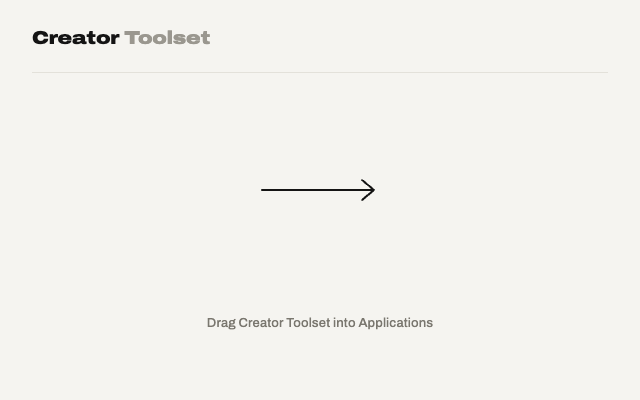
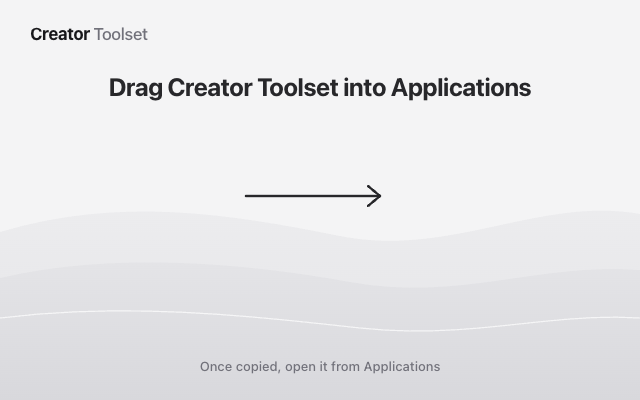
Mac installer window: a straight arrow between the app and Applications, the wordmark and headline on a light wave page, and the window is named "Creator Toolset <version> Installer"
The disk image window is 640 by 400 of content (the window is 428 with the title bar, so Finder no longer cuts the bottom). The icons sit at y 196 on either side of a straight arrow; the caption sits at the bottom with the same margin as the wordmark at the top. background.png and background@2x.png are rendered from background.html with headless Chrome (the command is in its comment). release.sh passes the version to dmgbuild for the volume name, so Finder's title reads the release version. The DMG file name is unchanged.

diff --git a/apps/mac/scripts/dmg/background.html b/apps/mac/scripts/dmg/background.html
@@ -1,18 +1,37 @@
 <!doctype html>
-<!-- The disk image window's background, 640x400. Remake background.png and background@2x.png from it with any
-     browser screenshot at 1x and 2x (e.g. Playwright, deviceScaleFactor 2) after a change. --><html><head><meta charset="utf-8"><style>
-@font-face{font-family:XB;src:url(../../../captions/public/fonts/Archivo-ExpandedBlack.woff2)}
-@font-face{font-family:AT;src:url(../../../captions/public/fonts/Archivo-Text.woff2)}
-html,body{margin:0;width:640px;height:400px;background:#F5F4F0;overflow:hidden}
-.mark{position:absolute;left:32px;top:28px;font:18px XB;letter-spacing:-.01em;color:#141414}
-.mark span{color:#9a978f}
-.hint{position:absolute;left:0;right:0;top:316px;text-align:center;font:500 13px AT;color:#7a776f;letter-spacing:.01em}
+<!-- The disk image window's background, 640x400 points. Render background.png (1x, 640x400) and background@2x.png
+     (2x, 1280x800) from it with headless Chrome, one at a time, from this folder:
+       chrome --headless=new --hide-scrollbars --allow-file-access-from-files --user-data-dir=<scratch>
+              --window-size=640,400 --force-device-scale-factor=1 --screenshot=background.png file://$PWD/background.html
+     then the same with --force-device-scale-factor=2 --screenshot=background@2x.png. Finder draws the icon names
+     itself, so they are not on the picture. Icon centres and the arrow's ends must match settings.py. -->
+<html><head><meta charset="utf-8"><style>
+html,body{margin:0;width:640px;height:400px;background:#f4f4f5;overflow:hidden}
+body{position:relative;font-family:-apple-system,BlinkMacSystemFont,"Helvetica Neue",Arial,sans-serif;color:#18181b;-webkit-font-smoothing:antialiased}
+.mark{position:absolute;left:30px;top:24px;font-size:17px;font-weight:700;letter-spacing:-.02em;color:#18181b}
+.mark span{font-weight:500;color:#71717a}
+.head{position:absolute;left:0;right:0;top:72px;text-align:center;font-size:25px;font-weight:700;letter-spacing:-.02em;color:#27272a}
+.hint{position:absolute;left:0;right:0;top:358px;line-height:16px;text-align:center;font-size:13px;font-weight:500;color:#71717a}
 svg{position:absolute;left:0;top:0}
-.rule{position:absolute;left:32px;right:32px;top:72px;height:1px;background:#e3e1da}
 </style></head><body>
+<svg width="640" height="400" viewBox="0 0 640 400">
+  <defs>
+    <linearGradient id="far" x1="0" y1="0" x2="0" y2="1">
+      <stop offset="0" stop-color="#ececee"/><stop offset="1" stop-color="#e4e4e7"/>
+    </linearGradient>
+    <linearGradient id="near" x1="0" y1="0" x2="0" y2="1">
+      <stop offset="0" stop-color="#e4e4e7"/><stop offset="1" stop-color="#d8d8dc"/>
+    </linearGradient>
+  </defs>
+  <!-- wave bands across the middle, soft and low-contrast -->
+  <path d="M0 232 C120 196 230 214 340 236 C450 258 540 196 640 214 L640 400 L0 400 Z" fill="url(#far)"/>
+  <path d="M0 278 C110 252 240 262 350 282 C460 302 540 262 640 270 L640 400 L0 400 Z" fill="url(#near)"/>
+  <path d="M0 318 C130 302 250 316 360 328 C470 340 550 312 640 318" fill="none" stroke="#ffffff" stroke-opacity=".7" stroke-width="1.2"/>
+  <!-- a straight arrow from the app icon (centre 175) to Applications (centre 465), level with the icon centres (y 196) -->
+  <path d="M246 196 H380" fill="none" stroke="#27272a" stroke-width="2.4" stroke-linecap="round"/>
+  <path d="M368 186 L380 196 L368 206" fill="none" stroke="#27272a" stroke-width="2.4" stroke-linecap="round" stroke-linejoin="round"/>
+</svg>
 <div class="mark">Creator <span>Toolset</span></div>
-<div class="rule"></div>
-<svg width="640" height="400"><g fill="none" stroke="#141414" stroke-width="2" stroke-linecap="round" stroke-linejoin="round">
-<path d="M262 190 H372"/><path d="M362 180 L374 190 L362 200"/></g></svg>
-<div class="hint">Drag Creator Toolset into Applications</div>
+<div class="head">Drag Creator Toolset into Applications</div>
+<div class="hint">Once copied, open it from Applications</div>
 </body></html>

diff --git a/apps/mac/scripts/dmg/settings.py b/apps/mac/scripts/dmg/settings.py
@@ -1,5 +1,6 @@
 # dmgbuild settings for the download's window (release.sh): the app on the left, an arrow, Applications on the right,
-# on background.png (with background@2x.png for Retina). Positions match the arrow drawn in background.html.
+# on background.png (with background@2x.png for Retina). Icon centres match the arrow drawn in background.html
+# (its ends sit at x 250 and 384, y ~196).
 import os
 
 app = defines.get("app")
@@ -8,9 +9,9 @@ files = [app]
 symlinks = {"Applications": "/Applications"}
 icon = os.path.join(app, "Contents/Resources/AppIcon.icns")
 background = os.path.join(defines.get("here"), "background.png")
-window_rect = ((200, 120), (640, 400))
+window_rect = ((200, 120), (640, 428))  # Finder counts the title bar: 428 outer = 400 content
 icon_size = 96
 text_size = 12
 show_status_bar = show_tab_view = show_toolbar = show_pathbar = show_sidebar = False
 default_view = "icon-view"
-icon_locations = {os.path.basename(app): (170, 190), "Applications": (465, 190)}
+icon_locations = {os.path.basename(app): (175, 196), "Applications": (465, 196)}
